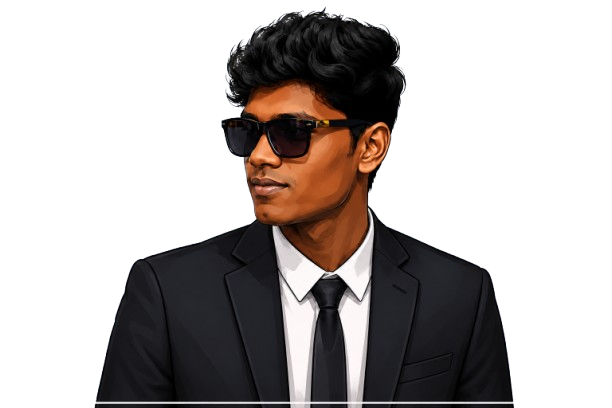
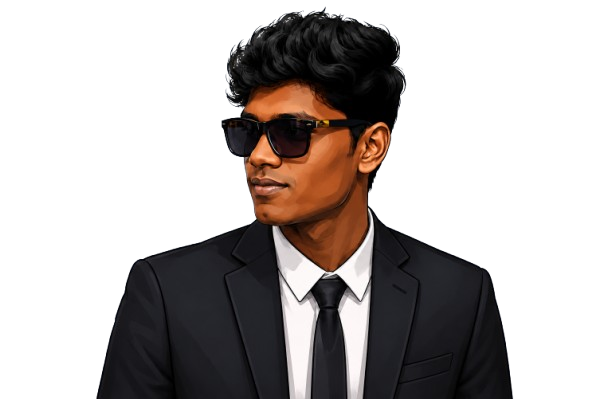
style: scale up profile vector and remove box effect

diff --git a/css/hero.css b/css/hero.css
@@ -260,20 +260,20 @@
 /* Glassmorphism Container Frame */
 .pv-glass-card {
   position: absolute; top: 50%; left: 50%; transform: translate(-50%, -50%);
-  width: 320px; height: 420px; border-radius: 32px;
-  background: rgba(10, 8, 22, 0.3); border: 1px solid rgba(139, 92, 246, 0.15);
-  backdrop-filter: blur(24px); -webkit-backdrop-filter: blur(24px);
-  box-shadow: 0 40px 80px rgba(0,0,0,0.6), inset 0 0 40px rgba(139, 92, 246, 0.05);
+  width: 380px; height: 480px; border-radius: 32px;
+  background: rgba(10, 8, 22, 0.05); border: 1px solid rgba(139, 92, 246, 0.3);
+  backdrop-filter: blur(12px); -webkit-backdrop-filter: blur(12px);
+  box-shadow: 0 40px 80px rgba(0,0,0,0.6), inset 0 0 60px rgba(139, 92, 246, 0.15);
   z-index: 6; display: flex; justify-content: center; align-items: center; overflow: hidden;
 }
 .pv-neon-border {
   position: absolute; top: -50%; left: -50%; width: 200%; height: 200%;
-  background: conic-gradient(from 0deg, transparent 0%, rgba(139, 92, 246, 0.4) 25%, transparent 50%, rgba(6, 182, 212, 0.4) 75%, transparent 100%);
-  animation: spin-pv 5s linear infinite; pointer-events: none; mix-blend-mode: screen; opacity: 0.6;
+  background: conic-gradient(from 0deg, transparent 0%, rgba(139, 92, 246, 0.6) 25%, transparent 50%, rgba(6, 182, 212, 0.6) 75%, transparent 100%);
+  animation: spin-pv 5s linear infinite; pointer-events: none; mix-blend-mode: screen; opacity: 0.8;
 }
 .pv-glass-inner {
   position: absolute; top: 2px; left: 2px; right: 2px; bottom: 2px; border-radius: 30px;
-  background: rgba(10, 8, 22, 0.75); z-index: 1; pointer-events: none;
+  background: rgba(10, 8, 22, 0.1); z-index: 1; pointer-events: none;
 }
 .pv-corners .pvc { position: absolute; width: 20px; height: 20px; border-color: rgba(6, 182, 212, 0.8); border-style: solid; z-index: 2; box-shadow: 0 0 10px rgba(6,182,212,0.4); }
 .pv-corners .tl { top: 15px; left: 15px; border-width: 3px 0 0 3px; border-top-left-radius: 8px; }
@@ -308,7 +308,8 @@
 }
 
 .pv-img {
-  width: 80%; height: 80%; object-fit: contain; object-position: center;
+  width: 130%; height: 130%; object-fit: contain; object-position: bottom center;
+  margin-bottom: -15%; margin-top: -10%;
   display: block; filter: drop-shadow(0 25px 35px rgba(0,0,0,0.8)) drop-shadow(0 0 20px rgba(139, 92, 246, 0.3));
   transition: filter var(--transition-normal), transform var(--transition-normal); z-index: 2;
 }
